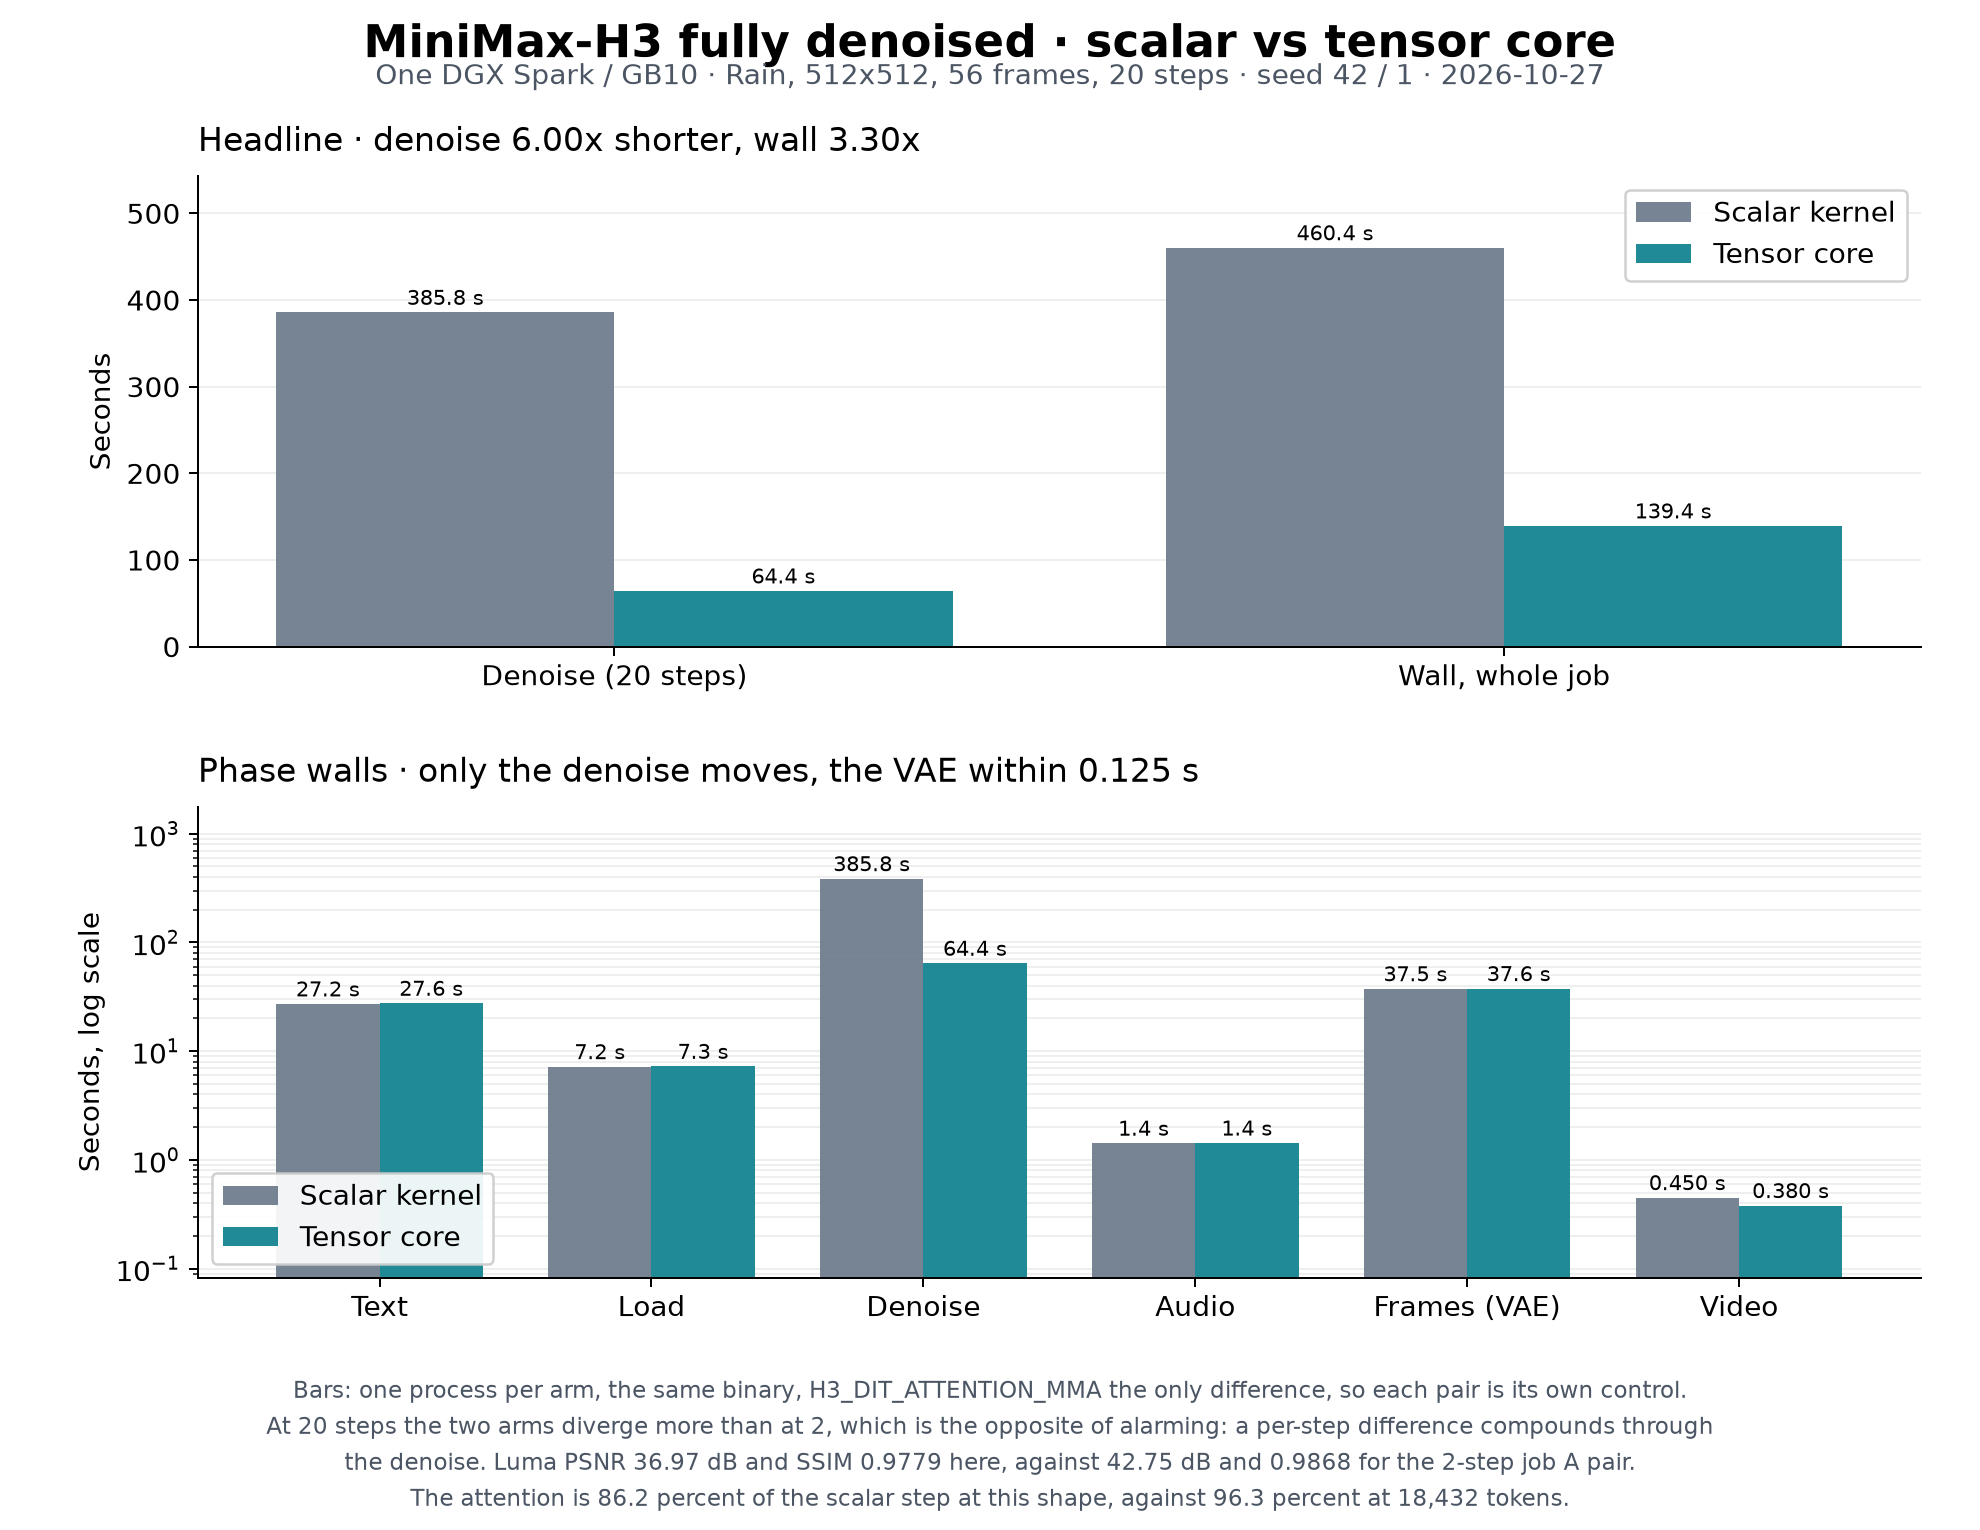
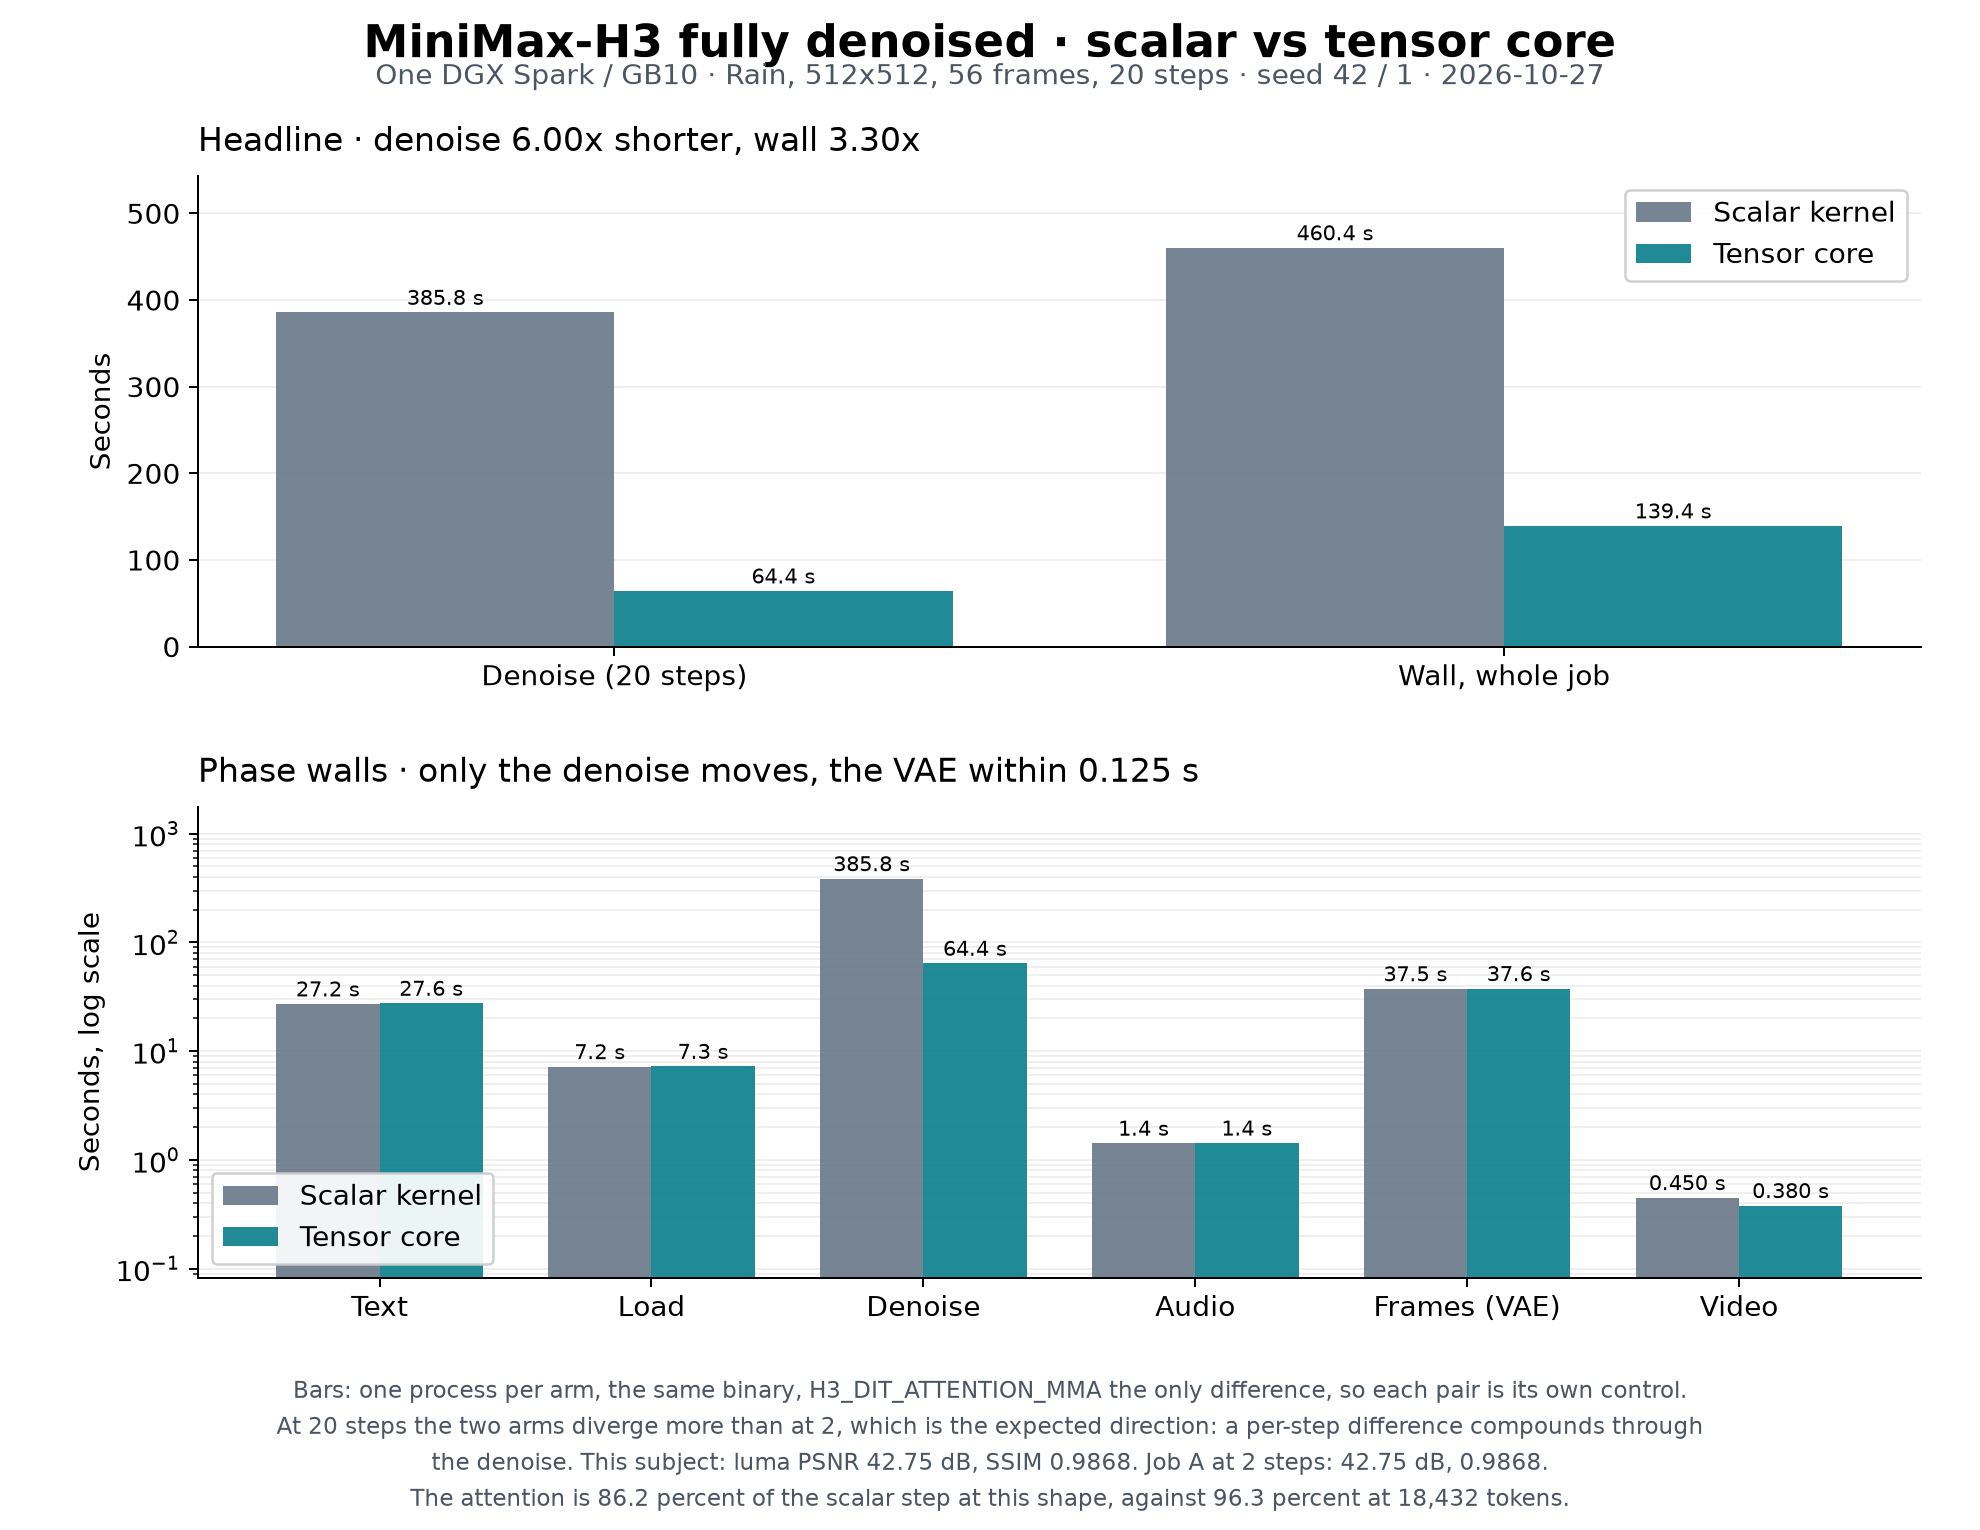
Record both 20-step pairs and the case for the tensor default
Adds the Earth subject beside the rain one, 409.684 s against 66.520 s for
the denoise, 6.16x, and its own figure. The two subjects disagree in quality
and the record keeps both: 36.97 dB luma and SSIM 0.9779 for rain against
30.13 dB and 0.9389 for Earth at the same shape, steps and method. Earth is
the weak case because it carries fine detail, so quoting one prompt would
have overstated the case.

docs/minimax-h3/tensor-default-2026-10-27.md is the argument the operator
asked for: the speed evidence per scope, the quality evidence per pair, and
what the evidence does not cover. The chief gap is unchanged and now sits on
the default path: no noise floor exists on this host, because every benign
configuration change to this kernel is bit-identical, so the deviation is
attributable but unbounded, and any threshold quoted is a judgement rather
than a measured band.

It also states the consequences. From here the released render is no longer
byte-identical to the reference, so every render hash and the reproducer's
out_fnv describe the scalar option, which is the path that keeps the
guarantee.

Changed region(s): [[0.1232, 0.9216, 0.8626, 0.983]]

diff --git a/docs/benchmarks/plot-h3-512.py b/docs/benchmarks/plot-h3-512.py
@@ -28,12 +28,14 @@ def load():
     rows = {}
     with (DATA / "h3-512-both-arms.csv").open() as source:
         for row in csv.DictReader(source):
-            if row["arm"] not in LABELS or not row["scope"].startswith("hq512-"):
+            if not row["scope"].startswith("hq512-"):
                 continue
             try:
-                rows[(row["scope"], row["arm"], row["metric"])] = float(row["value"])
+                value = float(row["value"])
             except ValueError:
                 continue    # the hashes share this file and are not numbers
+            arm = row["arm"] if row["arm"] in LABELS else "pair"
+            rows[(row["scope"], arm, row["metric"])] = value
     return rows
 
 
@@ -86,11 +88,14 @@ def plot(scope="hq512-rain", subject="Rain, 512x512, 56 frames, 20 steps",
     axes[1].legend(loc="lower left", framealpha=0.92)
     axes[1].margins(y=0.22)
 
+    psnr = rows[(scope, "pair", "psnr_y")]
+    ssim = rows[(scope, "pair", "ssim_all")]
+    share = rows[(scope, "scalar", "attention_share_of_step")]
     fig.text(0.5, 0.055,
              "Bars: one process per arm, the same binary, H3_DIT_ATTENTION_MMA the only difference, so each pair is its own control.\n"
-             "At 20 steps the two arms diverge more than at 2, which is the opposite of alarming: a per-step difference compounds through\n"
-             "the denoise. Luma PSNR 36.97 dB and SSIM 0.9779 here, against 42.75 dB and 0.9868 for the 2-step job A pair.\n"
-             "The attention is 86.2 percent of the scalar step at this shape, against 96.3 percent at 18,432 tokens.",
+             "At 20 steps the two arms diverge more than at 2, which is the expected direction: a per-step difference compounds through\n"
+             f"the denoise. This subject: luma PSNR {psnr:.2f} dB, SSIM {ssim:.4f}. Job A at 2 steps: 42.75 dB, 0.9868.\n"
+             f"The attention is {100 * share:.1f} percent of the scalar step at this shape, against 96.3 percent at 18,432 tokens.",
              ha="center", va="center", fontsize=9, color="#4b5563", linespacing=1.6)
     fig.subplots_adjust(top=0.885, bottom=0.165, left=0.1, right=0.97, hspace=0.34)
     target = DATA.parent / f"h3-512-2026-10-27{suffix}.png"

diff --git a/docs/minimax-h3/tensor-default-2026-10-27.md b/docs/minimax-h3/tensor-default-2026-10-27.md
@@ -1,0 +1,123 @@
+# Why the tensor-core attention is the default
+
+Operator decision, 2026-10-27: the tensor path becomes the default and the
+scalar path becomes an option, selectable from the CLI and from the API. This
+file is the evidence for that choice, and it states what the evidence does not
+cover as carefully as what it does.
+
+## The claim
+
+The tensor-core attention produces the same output quality as the byte-exact
+scalar kernel and is substantially faster. Both halves need support, and the
+second is much easier to establish than the first.
+
+## The speed evidence
+
+Every row is one binary with `H3_DIT_ATTENTION_MMA` as the only difference, so
+each pair is its own control.
+
+| Scope | Scalar | Tensor core | Ratio |
+|---|---:|---:|---:|
+| Attention kernel, 4,352 tokens | 295.57 ms/call | 10.07 ms/call | 29.4x |
+| Attention kernel, 18,432 tokens | 5,320.93 ms/call | 180.78 ms/call | 29.4x |
+| Kernel sweep median, 2,048 to 32,768 | 5,106.1 ms/call | 181.3 ms/call | 28.2x |
+| Job A denoise, 768x768, 2 evals | 585.267 s | 40.294 s | 14.53x |
+| Job A wall | 821.994 s | 277.019 s | 2.97x |
+| 512x512, 20 steps, rain | 385.830 s | 64.353 s | 6.00x |
+| 512x512, 20 steps, Earth | 409.684 s | 66.520 s | 6.16x |
+| 512 wall, rain / Earth | 460.399 / 485.457 s | 139.418 / 141.562 s | 3.30x / 3.43x |
+
+The kernel numbers are the honest headline, and they are stable: 29.36x and
+29.43x at the two benchmark lengths, three rounds an arm agreeing to well under
+one percent, and 28.2x on median across seven lengths. The job-level numbers are
+smaller and explain themselves: the denoise gains 6.0-14.5x depending on how
+large a share of a step the attention is, which is 96.3 percent at 18,432 tokens
+and 86.2-86.6 percent at 4,352, and the wall gains only about 3x because the VAE
+decode and the text encoder are untouched and now dominate. The VAE lands within
+0.125-0.203 s of its baseline in every pair, which is itself the check that the
+switch affects nothing else.
+
+## The quality evidence
+
+Rendered output, tensor arm against scalar arm, same prompt, seed, shape and step
+count. PSNR and SSIM are FFmpeg's, computed on the decoded frames.
+
+| Pair | Steps | PSNR y | PSNR avg | SSIM Y | SSIM all |
+|---|---:|---:|---:|---:|---:|
+| Job A, 768x768, 107 frames | 2 | 42.75 dB | 44.18 dB | 0.9829 | 0.9868 |
+| 512x512, 56 frames, rain | 20 | 36.97 dB | 38.44 dB | 0.9721 | 0.9779 |
+| 512x512, 56 frames, Earth | 20 | 30.13 dB | 31.85 dB | 0.9134 | 0.9389 |
+
+At the kernel itself, the tensor arm against the scalar output is max absolute
+1.2207031e-04 with rms 1.1488895e-05 at 18,432 tokens, and max 2.4414062e-04 with
+rms 2.3465292e-05 at 4,352, with about 42 percent of values differing in their
+last BF16 places. The clip structure is unchanged: same frame count, same
+duration, same 32 kHz stereo audio layout, and the first output value is
+byte-identical at both kernel lengths.
+
+## What this establishes
+
+- The deviation at the kernel is on the order of a few tenths of a percent
+  relative, and its cause is known and named rather than mysterious: P rounds to
+  BF16 for the second `mma`, a roughly 0.4 percent relative error on every
+  softmax weight, plus a different reduction tree. Nothing else differs: the
+  scores, the running maximum and sum, and the output accumulator stay FP32.
+- Nothing in the output is structurally wrong. No dropped frames, no audio
+  layout change, no NaN or saturation, and the VAE and text encoder produce
+  their baseline results to within a fifth of a second.
+- At the resolution and step counts the model actually runs, the two clips are
+  close: 36.97 dB and 0.9779 on the rain subject at 20 steps.
+
+## What this does not establish
+
+- **No noise floor, so no band.** The handoff's condition for this arm was that
+  it be gated on a noise floor measured on this host from a benign configuration
+  change. That floor does not exist: every benign configuration change measured
+  on this kernel is bit-identical, so the floor is zero and there is no
+  established band inside which this deviation could be called noise-class. Any
+  numeric threshold quoted here is a judgement, not a measurement of a bound.
+- **The deviation is content-dependent, and Earth is the weak case.** At the
+  same shape, steps, and measurement method, the Earth clip agrees less than the
+  rain clip: 30.13 dB and 0.9389 against 36.97 dB and 0.9779. That is the honest
+  spread, and it is not a measurement artifact: the Earth frame carries fine
+  detail, cloud edges, a star field and city lights, where a perturbed weight
+  shows more. A single figure from one prompt would have overstated the case.
+- **The deviation compounds with depth.** Rain at 2 steps would agree much more
+  closely than rain at 20; the 2-step Job A pair measures 42.75 dB and 0.9868
+  while the same prompt at 20 steps measures 36.97 dB and 0.9779. The 2-step
+  number flatters the tensor arm, and it is the number this campaign's benchmark
+  setting produces, so it should not be quoted as the quality of the default.
+- **No perceptual or semantic check.** PSNR and SSIM are pixel metrics. Nobody
+  has looked at the two clips side by side and judged whether the difference is
+  visible, and a pixel metric cannot answer that. The clips are in `~/h3-clips`
+  on the driving machine as `h3-512-rain-{scalar,tensor}.mp4` and
+  `h3-512-earth-{scalar,tensor}.mp4` precisely so that a person can.
+- **No latent-level or token-level comparison.** The H3 DiT path exposes no
+  logits or argmax, so the paired-NLL and top-1 method that `tests/minimax_quality`
+  uses for the MiniMax text paths cannot be applied here. There is no equivalent
+  instrument, which is why this file leans on render metrics.
+
+## What would strengthen the case
+
+1. A measured floor. A deliberately benign reorder in the scalar kernel, the
+   butterfly in place of the down-shuffle in its reduction, keeps the arithmetic
+   the same in kind, changes the order, and is bit-identical to nothing; it
+   would give a real band to compare the tensor deviation against. Until it
+   exists, the tensor arm's deviation is attributable but unbounded.
+2. A 512 pair at 2 steps as well as 20, to separate the per-step deviation from
+   its compounding.
+3. A latent-level comparison, if the DiT ever exposes one.
+
+## Consequences of the decision
+
+Making the tensor path the default changes what the released output is.
+
+- The released render is no longer byte-identical to the reference. Job A's
+  scalar render holds `69816f7f...`; the tensor render is `5cb28765...`. Every
+  render hash recorded in this campaign describes the scalar option from here on,
+  not the default.
+- The reproducer's `out_fnv` gate (`c6196e81bc4634e0` at 4,352 and
+  `5c1e3810028a8fa5` at 18,432) likewise describes the scalar option.
+- The switch becomes inverted: the scalar path is what needs to be asked for,
+  from the CLI and from the API, and it is the only path that carries the
+  byte-exact guarantee.
